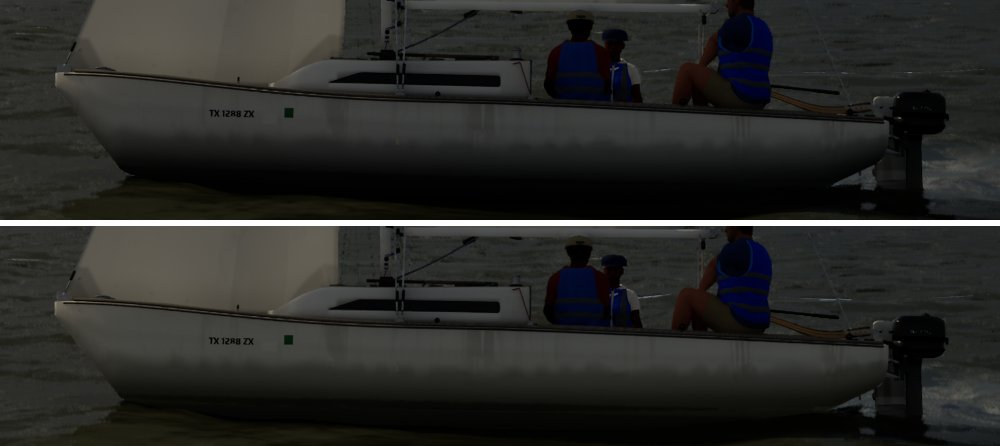
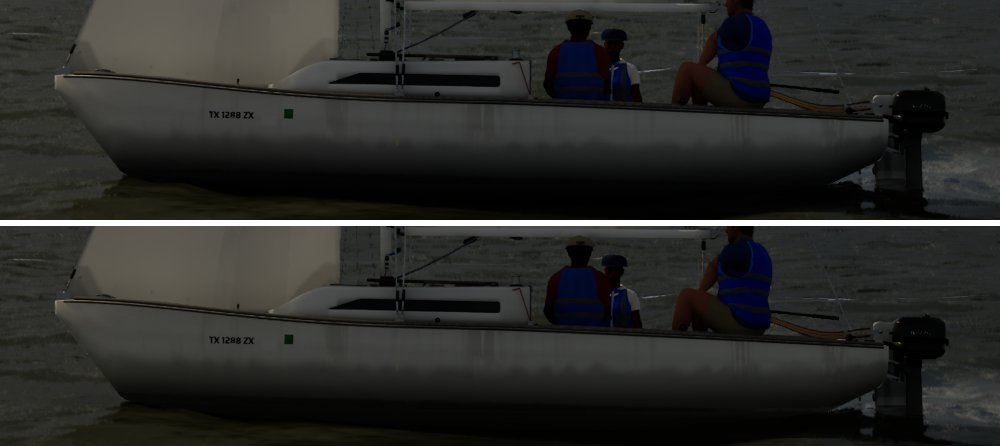
Sky light lower hemisphere: the sun term takes the clouds' dimming
The probe's sun is the light through the atmosphere, not through the clouds; the
clouds take the direct sun off the scene by the light's diffuse scale (its
intensity keeps a 0.35 floor for the storm sky). The sun term now multiplies by
it. Under the shelf (-SailingStormDelay=-250) the effective lower hemisphere is
0.0078 against 0.066 in full sun (-3.1 stops); night and dusk ~0.00015. The log
line gives the direct scale, sky light intensity, cloud shade and darkness.

diff --git a/Source/SailingSim/Private/SailingEnvironment.cpp b/Source/SailingSim/Private/SailingEnvironment.cpp
@@ -1386,15 +1386,22 @@ void ASailingEnvironment::UpdateLowerHemisphere(double Now)
 	{
 		const FLinearColor Light = SkyComp->GetLightColor() * FMath::Max(SkyComp->Intensity, 1e-4f);
 		const FLinearColor Body = WaterUpwelling(USailingSettings::Get()->World);
-		const FLinearColor Up = (FLinearColor(kWaterSkyFresnel, kWaterSkyFresnel, kWaterSkyFresnel) + Body) * Probe + Body * SunIll * (1.f / PI);
+		// The probe's sun is the light through the atmosphere, not through the clouds: the clouds take the direct sun off the
+		// scene by the light's diffuse scale (UpdateSun: its intensity keeps a 0.35 floor for the storm sky's sake), so the
+		// sunlight that actually reaches the water is the probe's times that scale.
+		const float SunDirect = Sun ? Sun->GetLightComponent()->DiffuseScale : 1.f;
+		const FLinearColor Up = (FLinearColor(kWaterSkyFresnel, kWaterSkyFresnel, kWaterSkyFresnel) + Body) * Probe + Body * SunIll * (SunDirect / PI);
 		const FLinearColor Lower(Up.R / FMath::Max(Light.R, 1e-4f), Up.G / FMath::Max(Light.G, 1e-4f), Up.B / FMath::Max(Light.B, 1e-4f));
 		const float Change = FMath::Abs(Lower.GetLuminance() - AppliedLowerHemisphere.GetLuminance()) / FMath::Max(Lower.GetLuminance(), 1e-6f);
 		if (AppliedLowerHemisphere.R < 0.f || Change > 0.02f)
 		{
 			SkyComp->bLowerHemisphereIsBlack = false;
 			SkyComp->SetLowerHemisphereColor(Lower);
-			UE_LOG(LogSailing, Log, TEXT("Water bounce: sky mean (%.4f, %.4f, %.4f), sun on the water (%.4f, %.4f, %.4f), lower hemisphere (%.5f, %.5f, %.5f)"),
-				Probe.R, Probe.G, Probe.B, SunIll.R, SunIll.G, SunIll.B, Lower.R, Lower.G, Lower.B);
+			const ASailingGameMode* GM = GetWorld()->GetAuthGameMode<ASailingGameMode>();
+			UE_LOG(LogSailing, Log, TEXT("Water bounce: sky mean (%.4f, %.4f, %.4f), sun on the water (%.4f, %.4f, %.4f) x direct %.2f, lower hemisphere (%.5f, %.5f, %.5f), x sky light %.3f = (%.5f, %.5f, %.5f); sun light %.3f, cloud shade %.2f, cloud darkness %.2f"),
+				Probe.R, Probe.G, Probe.B, SunIll.R, SunIll.G, SunIll.B, SunDirect, Lower.R, Lower.G, Lower.B, SkyComp->Intensity,
+				Lower.R * SkyComp->Intensity, Lower.G * SkyComp->Intensity, Lower.B * SkyComp->Intensity,
+				Sun ? Sun->GetLightComponent()->Intensity : -1.f, LastCloudShade, GM ? float(GM->GetWeatherState().CloudDarkness) : -1.f);
 			AppliedLowerHemisphere = Lower;
 		}
 	}

diff --git a/docs/sky-lower-hemisphere/README.md b/docs/sky-lower-hemisphere/README.md
@@ -37,34 +37,44 @@ the water's light reaches the hull's lighting through the sky light's lower hemi
 - `-SailingNoWaterBounce` keeps the old black. `-SailingSkyLowerHemisphere=<grey>` sets a fixed grey (measuring), and
   the automatic value then stands aside.
 
-**The computed values** (lake, High, log `Water bounce: ...` at every set):
+**The sun reaching the water is the direct light after the clouds.** The probe's sun is the light through the atmosphere,
+but the clouds take the direct sun off the scene by the light's diffuse scale (`UpdateSun`: its intensity keeps a 0.35
+floor for the storm sky's sake). So the sun term is multiplied by `DiffuseScale`. The first version left that out and
+overstated the sun under any cloud: under a storm deck the lower hemisphere hardly fell.
 
-| Condition | Sky mean | Sun on the water | Lower hemisphere |
-| --- | --- | --- | --- |
-| AfternoonBreeze, 15:00 | (0.160, 0.161, 0.164) | (1.76, 1.52, 1.17) | (0.028, 0.028, 0.019) |
-| Dusk, 19:36 | 0.0001 | 0 | 0.00016 |
-| Night, 22:00 | 0.0001 | 0 | 0.00013 |
-| Thunderstorm, 16:00, 10 min in | (0.158, 0.151, 0.144) | (1.27, 1.04, 0.75) | (0.026, 0.025, 0.017) |
+**The computed values** (lake, High; log `Water bounce: ...` at every set). "Effective" is the lower hemisphere times the
+sky light's intensity, which is what lights the topsides: the sky light's intensity falls under a deck (`UpdateSun`),
+and the stored colour is in its units.
 
-About a third of the day's value is the sky (its Fresnel reflection and the body's upwelling of it), two thirds the
-body's upwelling of the sun. (The first readback at start-up comes before the sky light's capture has converged and is
-tiny; the next one, two seconds later, is the real value.)
+| Condition | Sky mean | Sun on the water x direct | Effective lower hemisphere | vs full sun |
+| --- | --- | --- | --- | --- |
+| AfternoonBreeze 15:00, full sun (`-SailingCloudShade=1`) | (0.312, 0.337, 0.379) | (5.02, 4.35, 3.36) x 1.00 | **(0.066, 0.069, 0.048)** | |
+| Same, under a cumulus shadow (`-SailingCloudShade=0.15`) | (0.161, 0.163, 0.164) | (1.76, 1.52, 1.17) x 0.43 | (0.020, 0.021, 0.016) | -1.7 stops |
+| Thunderstorm 16:00, front arriving (`-SailingStormDelay=-140`, darkness 0.10) | (0.087, 0.088, 0.094) | x 0.36 | (0.011, 0.012, 0.009) | -2.5 stops |
+| Thunderstorm, **under the shelf** (`-SailingStormDelay=-250`, darkness 0.85, sky light 0.49) | (0.042, 0.045, 0.049) | x 0.35 | **(0.0078, 0.0080, 0.0056)** | **-3.1 stops** |
+| Thunderstorm, behind it (-500 s, darkness 0.55) | (0.045, 0.043, 0.040) | x 0.37 | (0.0073, 0.0071, 0.0046) | -3.2 stops |
+| Dusk 19:36 | 0.0001 | 0 | 0.00016 | |
+| Night 22:00 | 0.0001 | 0 | 0.00013 | |
+
+`-SailingWeatherTime` doesn't bring the front overhead: it runs on the sim clock and reaches the start at 150 s
+(`kFrontArrives`). `-SailingStormDelay=<negative s>` moves it earlier along its track, which is how these were taken.
+Dividing by the sky light's intensity doesn't cancel a real drop: the probe includes that intensity and the lighting
+multiplies it back. In full sun about a fifth is the sky (its Fresnel reflection and the body's upwelling of it) and the
+rest the body's upwelling of the sun.
 
 ## Effect (Ultra, linear luminance, mean of three runs per state, `-SailingCloudShade=0.15`)
 
 | View | Before (`-SailingNoWaterBounce`) | After | Change |
 | --- | --- | --- | --- |
-| Side, lower topsides | 0.3107 (sd 0.0002) | 0.3316 (sd 0.0003) | **+6.7%** |
-| Backlit chase topsides | 0.0335 (sd 0.0016) | 0.0371 (sd 0.0005) | **+10.8%** |
-| The albedo-0.08 stand-in, side lower topsides (one run) | 0.2990 | 0.3184 | +6.5% |
-| Crew underside view, hull lower (sky term only, one run) | 0.2210 | 0.2210 | none |
-| Boom underside (sky term only, one run) | 0.2352 | 0.2350 | none |
+| Side, lower topsides | 0.3105 (sd 0.0004) | 0.3256 (sd 0.0002) | **+4.8%** |
+| Backlit chase topsides | 0.0350 (sd 0.0014) | 0.0353 (sd 0.0005) | +0.9%, within spread (the sky region itself differed 6%) |
+| The albedo-0.08 stand-in, side lower topsides (one run, unforced shade) | 0.2990 | 0.3184 | +6.5% |
 
-The side view lands on the albedo-0.08 stand-in. With the sky term alone it was +3.3% (the sun's share of the body's
-upwelling is the other half). Where Lumen's rays find the lake bed or the hull itself first (the close underside
-views), the lower hemisphere isn't reached and nothing changes.
-
-The sheets below are from the final build, sky and sun terms (before above, after below).
+Under the shaded sky of these runs, the water's bounce lifts the lower topsides about 5%; in full sun it's larger, as
+the sun term grows with the direct light. (The +6.7%/+10.8% of the first sun-term push were the overstated sun.)
+Where Lumen's rays find the lake bed or the hull itself first (the close underside views), the lower hemisphere isn't
+reached and nothing changes.
+The sheets below are from the final build, sky and sun terms with the clouds' dimming (before above, after below).
 | Side | Chase | Crew underside | Boom from below |
 | --- | --- | --- | --- |
 | ![side](side.jpg) | ![chase](chase.jpg) | ![crew](crewunder.jpg) | ![boom](boomunder.jpg) |
